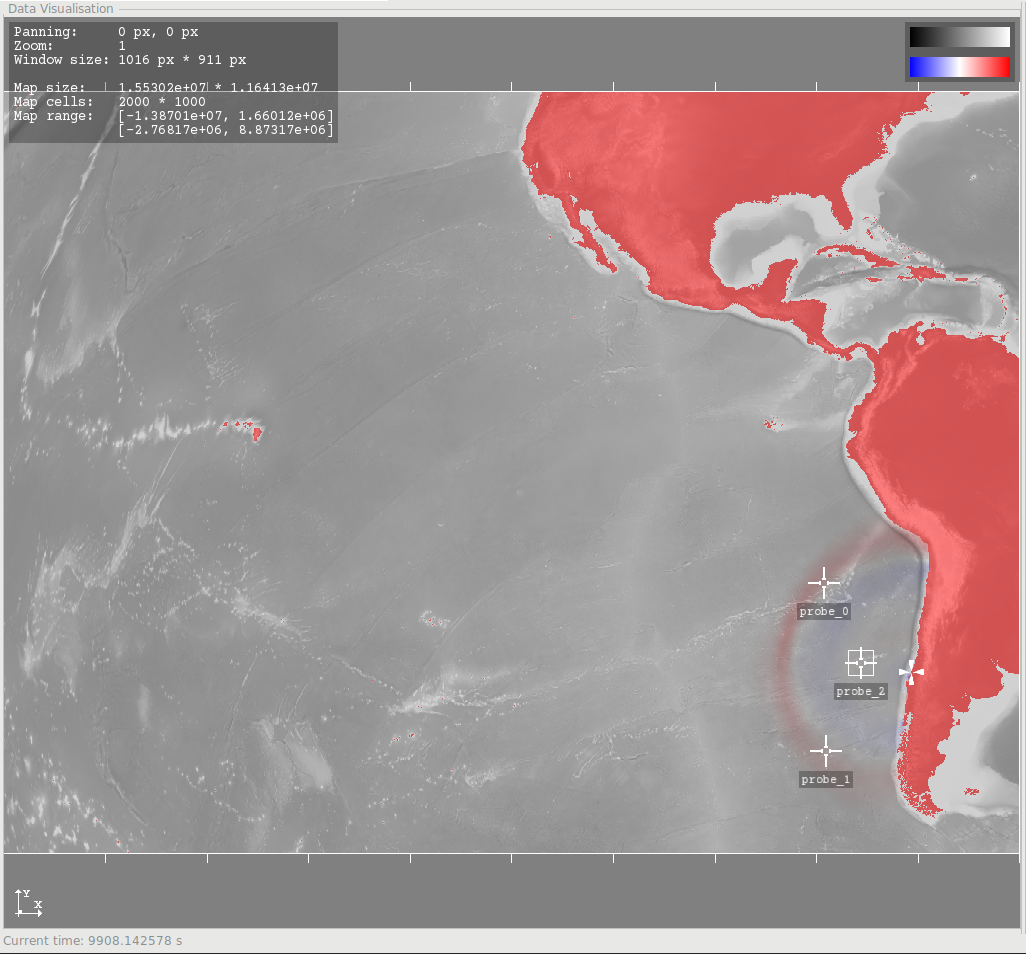
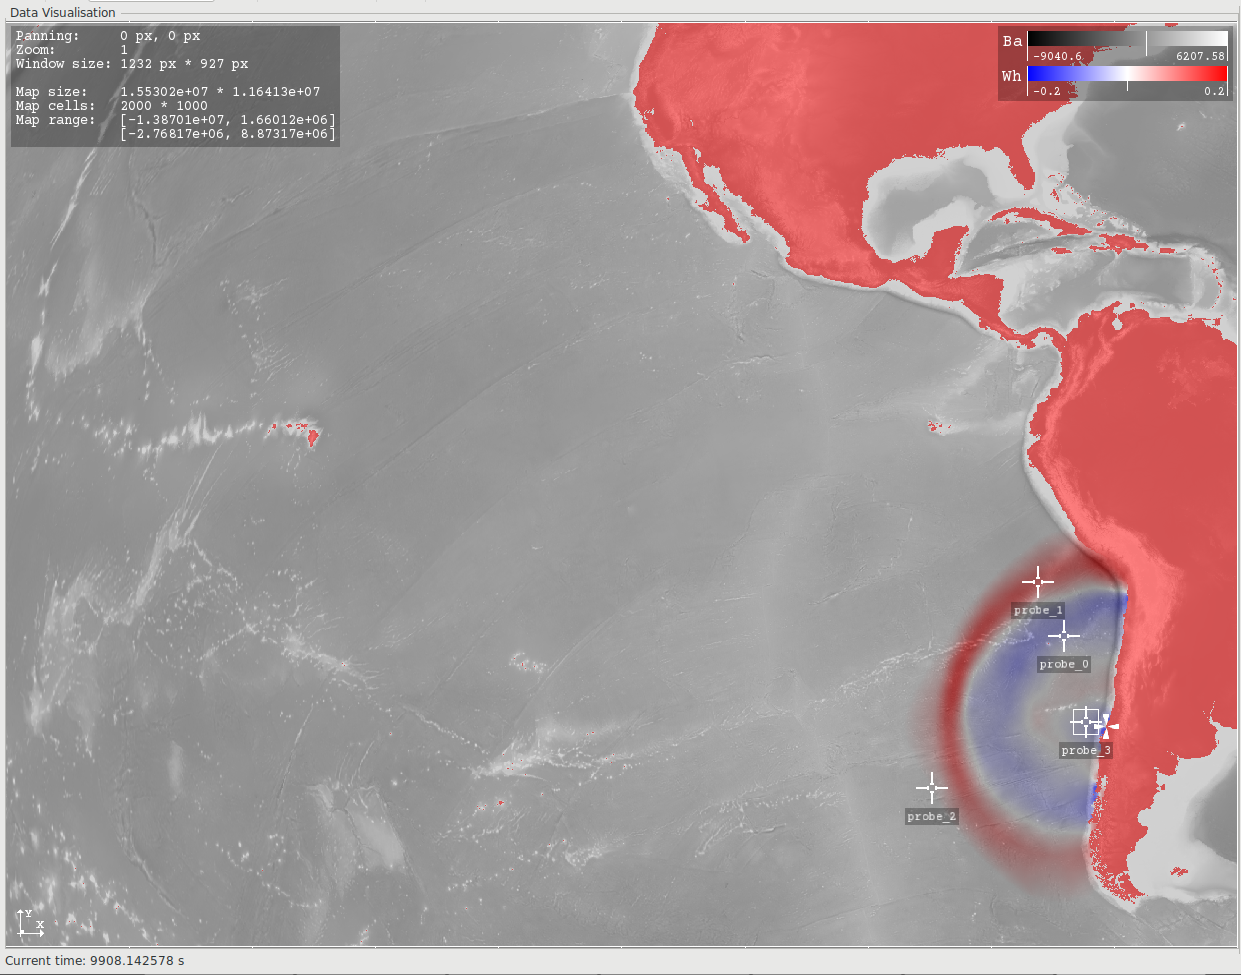
Prsentation integrated new screen shots and updated

diff --git a/documentation/project/HowTo/howto.tex b/documentation/project/HowTo/howto.tex
@@ -58,10 +58,11 @@ The epicenter of the tsunami is shown as pointed cones in a cross shape. On the 
 		\subsection{Probes}
 		These are points of interest selected on the data visualization. They are listed at the bottom right of the application. To create a new probe either double click on the rendered view or choose the add button at the bottom. To select an existing probe either click it in the list or in the rendered view. 
 		
-		The data of the selected probe will be displayed in the data display above the probe list. To edit a probe (including name or coordinates) or to delete it you can right click on it and select the corresponding function with a left click from the drop down menu. The point will stay at the selected coordinates even if you change the window size. 
+		The data of the selected probe will be displayed in the data display above the probe list. To edit a probe (including name or coordinates) or to delete it you can right click on it and select the corresponding function with a left click from the drop down menu. The point will stay at the selected coordinates even if you change the window size of the main window. To delete all probes you can use the drop down menu at the top of the screen under Simulation $\rightarrow$ Clear Probes.
 		
 		To monitor the data of more than one point you can right click on a point in the list and choose the display option from the drop down menu. A new window will open and allow you to monitor the probes data independently. You can close this window at any point, this will not delete the probe.
-		\subsection{Data display}
+		
+		T		\subsection{Data display}
 		Above the probes on the right or in an extra window if opened by using the drop down menu of a probe. Here the data of the chosen probe is shown. The active probe can be changed by clicking on one in the list or in the rendered view. At the top you can select between displaying the current data as numbers or to graph the data from the probes point. The graph will draw the data from the probe point over the simulation time. A solid red line form the top to the bottom of the graph will indicate the current time of the simulation, a blue line in the graph will indicate the lowest and a pink line the highest value. To the left the values of these extrema will be displayed. To view the graph in more detail open the graph in an extra window by right clicking on the probe in the probe list and clicking open. Then you can resize the window to any size. The graph can also be exported as a png picture file by clicking on save.
 
 \end{document}

diff --git a/documentation/project/presentation/project.tex b/documentation/project/presentation/project.tex
@@ -115,7 +115,7 @@
 			{img/oszi.jpg}}
 		\hspace{40pt}\vspace{10pt}\\
 		\subfloat[Demonstration]{\includegraphics[clip,width=0.3\linewidth]
-			{img/tuhoku_mixed.png}}
+			{img/sc_2.PNG}}
 		\vfill
 		\flushleft
 		{\fontsize{5}{5} \selectfont *Image: \url{https://commons.wikimedia.org/wiki/File:1tt.jpg}}
@@ -126,7 +126,7 @@
 
 \begin{frame}[fragile]{UI}
 	\begin{figure}
-		\includegraphics[clip, width=\linewidth]{img/screenshot_1.png}
+		\includegraphics[clip, width=\linewidth]{img/sc_3.PNG}
 	\end{figure}
 \end{frame}
 
@@ -165,16 +165,17 @@
 
 \begin{frame}[fragile]{Layer selection}
 	\begin{figure}
-		\includegraphics[clip, width=80mm]{img/layerselect.png}
+		\includegraphics[clip, width=100mm]{img/sc_6.PNG}
 	\end{figure}
 	\begin{itemize}
-		\item Choose between data sets
+		\item Select between data sets to display in color grades
 		\item Clip displayed range to visualize small changes
+		\item Choose what items to draw on the screen
 	\end{itemize}
 \end{frame}
 
 \begin{frame}[fragile]{Probes}
-	\begin{figure}
+	\begin{figure}t
 		\includegraphics[clip, width=75mm]{img/Buoy.jpg}
 	\end{figure}
 	\begin{itemize}
@@ -187,15 +188,24 @@
 \end{frame}
 
 \begin{frame}[fragile]{Data display}
-	\begin{figure}
-		\includegraphics[clip, width=80mm]{img/datadisplay.png}
-	\end{figure}
-	\begin{itemize}
+\begin{columns}
+\begin{column}{0.5\textwidth}
+\begin{itemize}
 		\item Displays probe data
+		\newline
 		\item Optional extra windows to monitor multiple probes
-		\item Dedicated values or graph over time with max- and min values
+		\newline
+		\item Dedicated values or graph over time with max/smin values and current time as vertical lines
+		\newline
 		\item Export graphs as images 
 	\end{itemize}
+\end{column}
+\begin{column}{0.5\textwidth}
+	\begin{figure}
+		\includegraphics[clip, width=55mm]{img/sc_5.PNG}
+	\end{figure}
+\end{column}
+\end{columns}
 \end{frame}
 
 
